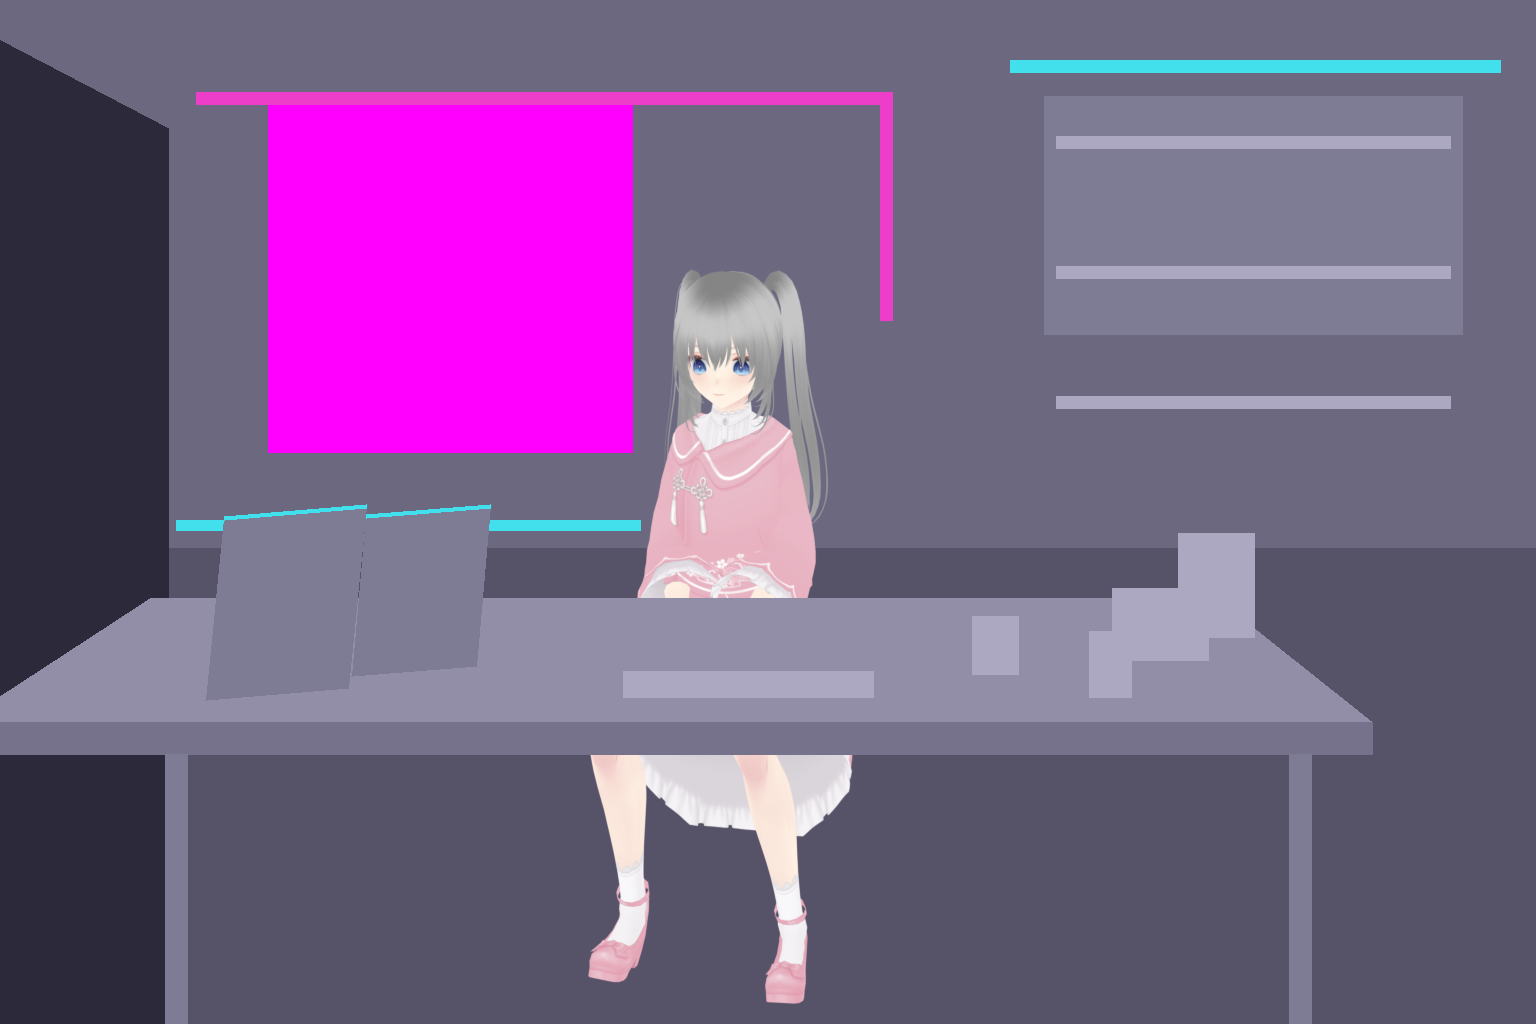
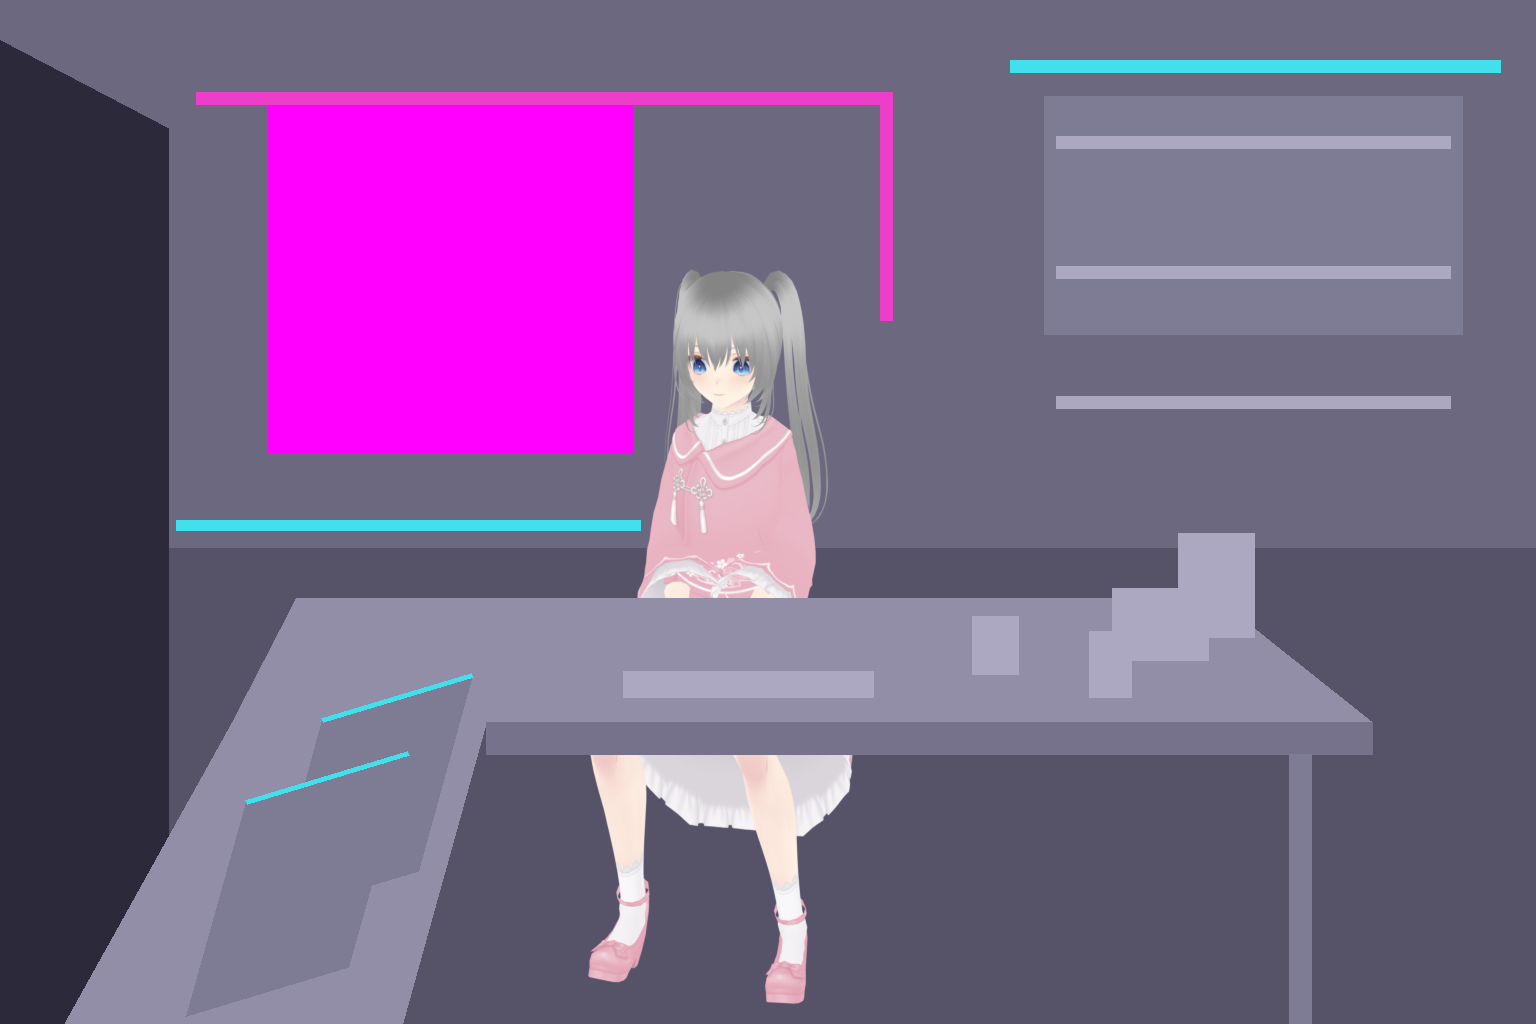
回滚：L 形桌的回折臂原样留着
撤销 3a27b6b 和 824fd26。把短边折到后墙那一版用户看了不对，退回去。
支架朝向那次改动（5e64bd9）保留。

Art/scene_rich.png 和 scene_rich_raw.png 在 .gitignore 里，git 管不到，
已手工还原成对应版本；核对过 room.png 和 scene_rich.png 逐像素一致。

Changed region(s): [[0.0, 0.4688, 0.3438, 1.0]]

diff --git a/Scripts/blocking.py b/Scripts/blocking.py
@@ -22,31 +22,21 @@ W, H = 1536, 1024
 
 # 构图参数。改构图只动这里。
 #
-# 桌子沿后墙横着走，从左墙角一直到右边。**原来有一条朝镜头伸过来的回折臂**
-# （L 形，她坐在内转角），用户明确要求把那条臂折到后墙上去——
-# 于是台面往左续到墙角，成一条直台，画面里没有东西朝观众伸出来。
-#
-# 代价要知道：回折臂原本是这版构图唯一的纵深来源，去掉之后窗户/人/货架
-# 容易一字排开、像一堵贴了东西的平墙。纵深现在只剩桌沿厚度、左墙转角
-# 和地毯，重绘时这几样都别省。
-#
+# 桌子是 L 形，她坐在**内转角**：主台面横在她身前，回折臂从左端朝镜头伸过来。
+# 回折臂是这版构图的关键——它一进画面就带来纵深，否则窗户/人/货架一字排开，
+# 整个房间会像一堵贴了东西的平墙。
 # 桌子整体抬高约 9%：桌沿到画面底边的空间从 33% 提到 41%。
 # 之前腿一放直脚就出画，那不是姿势调不好，是桌下根本塞不下她从胯到脚的长度。
 HORIZON = 548
-MAIN_FAR_Y, MAIN_NEAR_Y = 598, 722          # 台面的远近边
-# 这两个只定**道具坐标系**（`desk_point` 的 u 就在它们之间插值），
-# 动它等于把键盘、杯子、平板全挪一遍。要改台面左端请动 EXT_*。
+MAIN_FAR_Y, MAIN_NEAR_Y = 598, 722          # 主台面的远近边
 MAIN_FAR = (296, 1216)
 MAIN_NEAR = (232, 1372)
-# 台面左端续到墙角（远边 / 近边的 x）。近边给到画布外：重绘把左端面的透视
-# 画得比灰模陡（实测那条边从 (170,600) 斜到 (12,704)），遮罩要**宁可多包一点**
-# 也别短——短了那一小块桌子只进房间层、不进桌面层。多包的部分是墙和地板，
-# 那儿又没有她，画在桌面层里看不出来。
-EXT_FAR_X, EXT_NEAR_X = 150, -40
+RETURN_BOTTOM = (64, 402)                    # 回折臂在画面底边的左右端
+RETURN_SPLIT = 486                           # 主台面近边上，回折臂从这里岔出去
 DESK_LIP = 32
-LEG_X = (176, 1300)                          # 左右前腿。左侧不再被回折臂占着
+LEG_X = (1300,)                              # 只画右前腿；左侧被回折臂占了
 LEG_W = 22
-WINDOW = (268, 96, 632, 452)                 # 窗洞。避开她（x≈583 起）
+WINDOW = (268, 96, 632, 452)                 # 窗洞。避开她（x≈583 起）也避开回折臂
 SHELF = (1044, 96, 1462, 334)
 
 # 灰模的明度也跟着新方向调亮一档：重绘会照着灰模的明暗关系走，
@@ -69,16 +59,12 @@ MAIN_PROPS = [
     ("tablet",   0.87, 0.50, 96, 72),
     ("plant",    0.95, 0.32, 76, 104),
 ]
-# 台面左段上的显示器。回折臂没了之后它们站到直台上，屏幕朝房间这一侧，
-# 支架在面板背后（脚朝墙，不朝镜头）。
-#
-# **右缘必须留在 x≈520 以内**：`measure_hands.MONITOR_EDGE_X` 是拿它量的，
-# 键盘和手的左缘不能越过它（第 40 条）。往左让得越多，键盘的余量越大。
-# 屏幕内容不留品红——画面里唯一的品红是窗户，`cut_scene.window_rect`
-# 认的是最大那块。
+# 回折臂上的显示器。**侧对着她**，所以镜头看到的是机背——
+# 画成正面矩形就成了"电脑对着观众"，很怪；屏幕内容本来也就看不见，
+# 因此这里不留品红，画面里唯一的品红只有窗户。
 SCREENS = [
-    dict(foot=(206, 700), w=142, h=182, lean=18),
-    dict(foot=(352, 676), w=124, h=160, lean=14),
+    dict(foot=(268, 916), w=150, h=196, lean=54),
+    dict(foot=(186, 1016), w=162, h=214, lean=60),
 ]
 
 
@@ -91,16 +77,18 @@ def desk_point(u, v):
 
 
 def desk_surface():
-    """台面的梯形。顺时针：远边（左端续到墙角）→ 右端 → 近边 → 回到左端。"""
-    return [(EXT_FAR_X, MAIN_FAR_Y), (MAIN_FAR[1], MAIN_FAR_Y),
-            (MAIN_NEAR[1], MAIN_NEAR_Y), (EXT_NEAR_X, MAIN_NEAR_Y)]
+    """L 形台面的多边形。顺时针：主台面远边 → 右端 → 近边 → 岔出回折臂 → 回到左端。"""
+    return [(MAIN_FAR[0], MAIN_FAR_Y), (MAIN_FAR[1], MAIN_FAR_Y),
+            (MAIN_NEAR[1], MAIN_NEAR_Y), (RETURN_SPLIT, MAIN_NEAR_Y),
+            (RETURN_BOTTOM[1], H), (RETURN_BOTTOM[0], H),
+            (MAIN_NEAR[0], MAIN_NEAR_Y)]
 
 
 def draw_desk(d, top, lip, leg):
     d.polygon(desk_surface(), fill=top)
-    # 桌沿厚度现在整条近边都要画——回折臂没了，左段的沿也对着镜头
-    d.polygon([(EXT_NEAR_X, MAIN_NEAR_Y), (MAIN_NEAR[1], MAIN_NEAR_Y),
-               (MAIN_NEAR[1], MAIN_NEAR_Y + DESK_LIP), (EXT_NEAR_X, MAIN_NEAR_Y + DESK_LIP)],
+    # 桌沿厚度只画主台面那一段——回折臂是朝镜头伸的，看不到它的沿
+    d.polygon([(RETURN_SPLIT, MAIN_NEAR_Y), (MAIN_NEAR[1], MAIN_NEAR_Y),
+               (MAIN_NEAR[1], MAIN_NEAR_Y + DESK_LIP), (RETURN_SPLIT, MAIN_NEAR_Y + DESK_LIP)],
               fill=lip)
     # 前腿。桌下必须留空——能看见她的腿是这版构图的全部意义。
     for x in LEG_X:
@@ -114,13 +102,13 @@ def draw_props(d, solid=None):
     for s in SCREENS:
         x, y = s["foot"]
         w, h, lean = s["w"], s["h"], s["lean"]
-        # 底边贴在直台上，只带一点透视斜度；面板基本竖直、稍稍后仰。
-        # 读起来是一台正对房间立着的显示器，支架藏在面板后面
-        quad = [(x, y), (x + w, y - w * 0.08),
-                (x + w + lean, y - w * 0.08 - h), (x + lean, y - h)]
+        # 底边贴在回折臂上（沿着台面往右后方斜），面板竖起来并向右让开一点：
+        # 读起来就是一台立着的显示器，屏幕朝她、机背朝我们
+        quad = [(x, y), (x + w, y - w * 0.30),
+                (x + w + lean, y - w * 0.30 - h), (x + lean, y - h)]
         d.polygon(quad, fill=solid or C_METAL)
         if solid is None:
-            d.line([quad[3], quad[2]], fill=C_NEON_B, width=5)   # 屏幕上边框的辉光
+            d.line([quad[3], quad[2]], fill=C_NEON_B, width=5)   # 机背上沿透出的辉光
 
 
 def build(character_path, out_dir):

diff --git a/Blender/measure_hands.py b/Blender/measure_hands.py
@@ -37,21 +37,15 @@ from mathutils import Vector
 TIPS = ("Index3", "Middle3", "Ring3", "Little3")
 VRM = sys.argv[-1] if sys.argv[-1].endswith(".vrm") else "Snozzy.vrm"
 
-# 画上去的显示器，右缘在画布上的 x。
+# 画上去的那台显示器，右缘在画布上的 x。
 #
-# 这条线是**硬边界**：显示器立在桌面上、比键盘更靠近镜头，本该挡住键盘；
-# 可键盘和手是画在桌面层**之上**的，压过去就是键盘穿进显示器里
+# 这条线是**硬边界**：显示器立在桌子前沿偏左，比键盘更靠近镜头，本该挡住
+# 键盘；可键盘和手是画在桌面层**之上**的，压过去就是键盘穿进显示器里
 # （第 40 条）。所以键盘和手的左缘必须全部待在这条线右边。
 #
 # 重新量的办法（换了重绘图就要重量）：对 `Assets/desk.png` 逐行求横向梯度，
-# 在显示器所在的那段 x 里找**最靠右的强边缘**（>40 灰阶）。
-# **别用"梯度最大的那一列"**——那报的是"谁最强"，附近的东西一改冠军就换人，
-# 显示器根本没动数字也会跳（第 48 条）。
-#
-# 现在这一版：回折臂折回后墙之后显示器挪到了台面左段，x∈[150,600]、
-# y=560/580/600 三行量出来都是 495。比上一版的 580 往左让了 85 像素，
-# 键盘的余量只增不减，所以键盘和手不用重渲。
-MONITOR_EDGE_X = 495
+# 在 x∈[440,660] 里找最靠右的强边缘，y=600 处 569、y=690 处 580，取最大值。
+MONITOR_EDGE_X = 580
 
 
 def measure(press=0.0, side_first="L"):

diff --git a/HANDOFF.md b/HANDOFF.md
@@ -226,11 +226,8 @@ python3 Scripts/cut_scene.py Art/scene_rich.png --out Assets
 擦完写到 `scene_empty_clean.png` 再切层。
 `--box` 是水印的矩形，换一张图要重新量（拿网格图对一下就行）。
 
-重绘对构图的保持度是**实测过的**：窗洞误差 3–9 像素，桌沿/桌腿全部对上。
+重绘对构图的保持度是**实测过的**：窗洞误差 3–9 像素，桌沿/回折臂/桌腿全部对上。
 所以「我定构图、它上色」这条路是可靠的。
-
-**要动构图本身**（挪家具、改桌子形状）而不只是加细节，见第 50 条：
-先在成品图上用**克隆**粗涂出新几何当引导图，再让 codex 画成成品。
 
 切层用**灰模自带的遮罩**而不是从成品抠色——重绘会改颜色、加辉光和雾，
 颜色抠不干净；遮罩是画灰模时定义的，形状精确且免费。
@@ -522,10 +519,8 @@ y=267 的头顶，腿根本影响不到那里。判据要改成**按阈值二值
 
 **别指望加个 Holdout 补救**：键盘往左挪的时候，她的右手也一起进了
 显示器的轮廓，加挡板只会把手指也切掉。所以这是一条**硬边界**，
-不是遮挡关系能救的：键盘和手的左缘必须整个待在显示器右缘右边。
-`measure_hands.py` 现在直接报这个数。**这条线会跟着重绘图变**——
-当时是 x≈580，回折臂折回后墙、显示器挪到台面左段之后是 x≈495
-（第 50 条），换图必须重量。
+不是遮挡关系能救的：键盘和手的左缘必须整个待在显示器右缘
+（画布 x≈580）右边。`measure_hands.py` 现在直接报这个数。
 
 于是右腕那笔账只能靠别的还：把键盘收窄到 0.36（左缘让出 18 像素）、
 转角从 8° 收到 4°、再拿 `ELBOW_POLE` 去削。最后 25.7°/30.6°，
@@ -713,38 +708,6 @@ y=600 处 568、y=690 处 578，`MONITOR_EDGE_X = 580` 不用动。
 （`--dy -22`，从上方干净的面板取样）就没这个问题：**克隆不碰框边**。
 判据是拿二次曲面拟合面板表面看残差——平滑渐变本该拟合得很好，
 字迹会顶出来。rms 从 8.4 掉到 1.4 灰阶。
-
-**50. 要动构图（不只是加细节），先拿现成像素拼一张"引导图"，别只给文字。**
-用户要求把 L 形桌那条朝镜头伸的回折臂折到后墙上去。这不是涂改能完的事：
-画面左下角整片要变回地板，桌子要往左续到墙角，三块显示器要搬家。
-
-纯文字描述这种改动会跑偏（第二节开头那两轮就是这么废的）。正解是先
-**在成品图上粗涂出新几何**再让 codex 画成成品——等于把"灰模 → 重绘"
-这条老路搬到局部来用，只是底子从全灰换成了成品图。
-
-粗涂**别用平色块，用克隆**。桌面、地板、墙都是横向的带状结构（同一行上
-质地一致、只有低频渐变），横着挪一段取样，木纹和高光自动对得上——
-和擦水印同一个道理（第 32 条）。平色块拼出来读不出材质，codex 拿到
-只会把那块当一件新家具重画。第一版我用平色块，出来的左下角是一坨死粉色。
-
-**取样列要挑干净的**，挑错了就是把椅子腿、杯子、坐垫一起克隆过来，
-而且是**重复好几遍**地过来（我先后把落地灯底座和坐垫各铺了三四个）。
-挑法：对目标行段逐列算平均横向梯度，最小的那一带就是没有物件轮廓的。
-`Scripts/blocking.py` 里那几个 `*_SRC` 常量就是这么定的。
-
-实测结果：主桌中位漂 1px、窗洞 1px、桌上物件位移全是 (0,0)（做互相关量的，
-相关 0.85–0.97），左半边整片重画。
-
-**顺带两条：**
-
-- **遮罩要跟着重绘走，而且宁可多包一点。** 重绘把桌子左端面的透视画得比
-  灰模陡（那条边从 (170,600) 斜到 (12,704)，灰模只斜到 150）。遮罩短了，
-  那一小块桌子就只进房间层、不进桌面层。判法是把 `desk.png` 叠在亮绿底上
-  看边界——**多包的部分是墙和地板，那儿没有她，画在桌面层里看不出来；
-  少包了却是真漏**。
-- **`MONITOR_EDGE_X` 这类"从画面量出来的常数"，换图必须重量**（第 48 条的
-  量法）。这次 580 → 495，往左让了 85 像素，键盘余量只增不减，
-  所以键盘和手不用重渲——但方向反过来的话就得重渲了，别默认没事。
 
 ---
 
